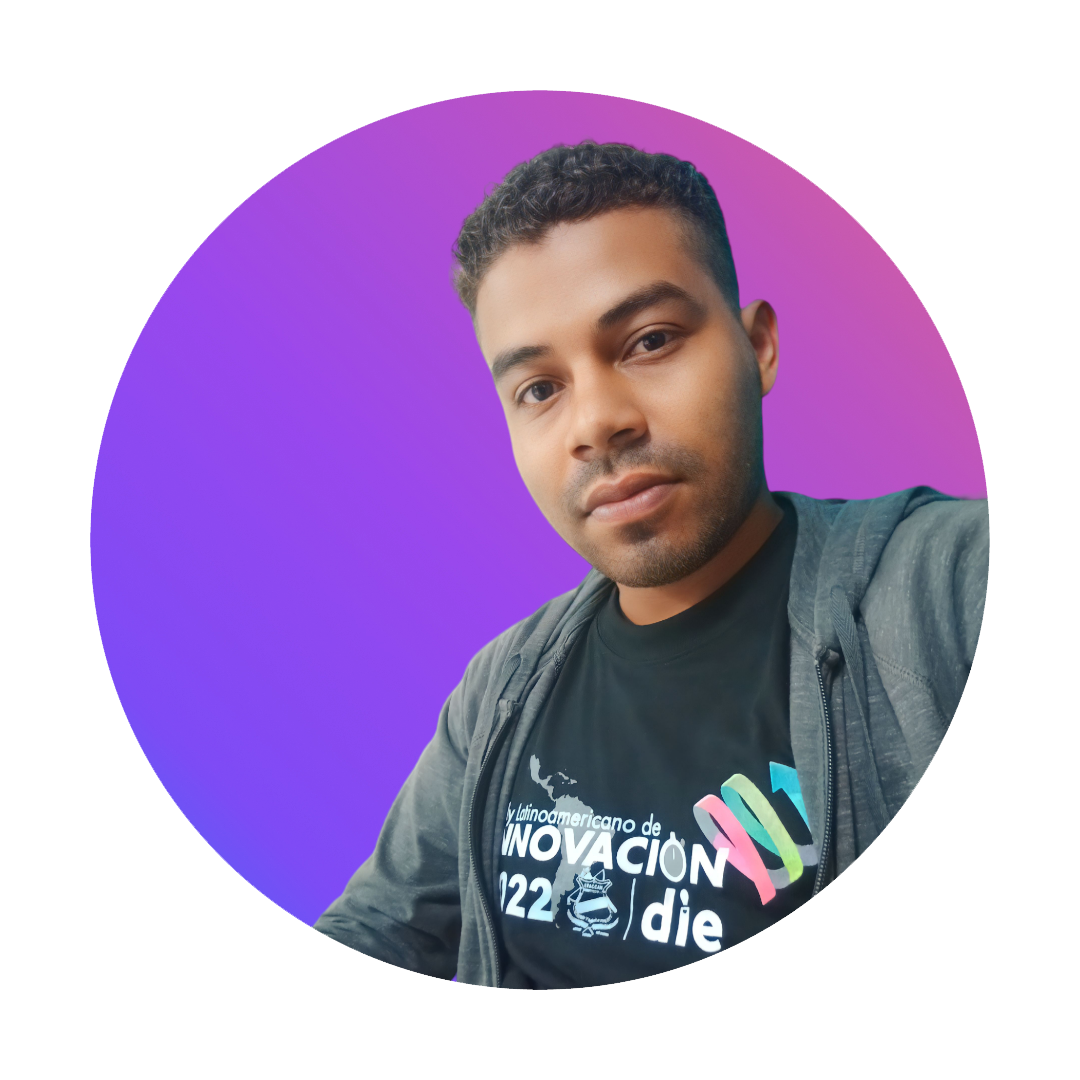
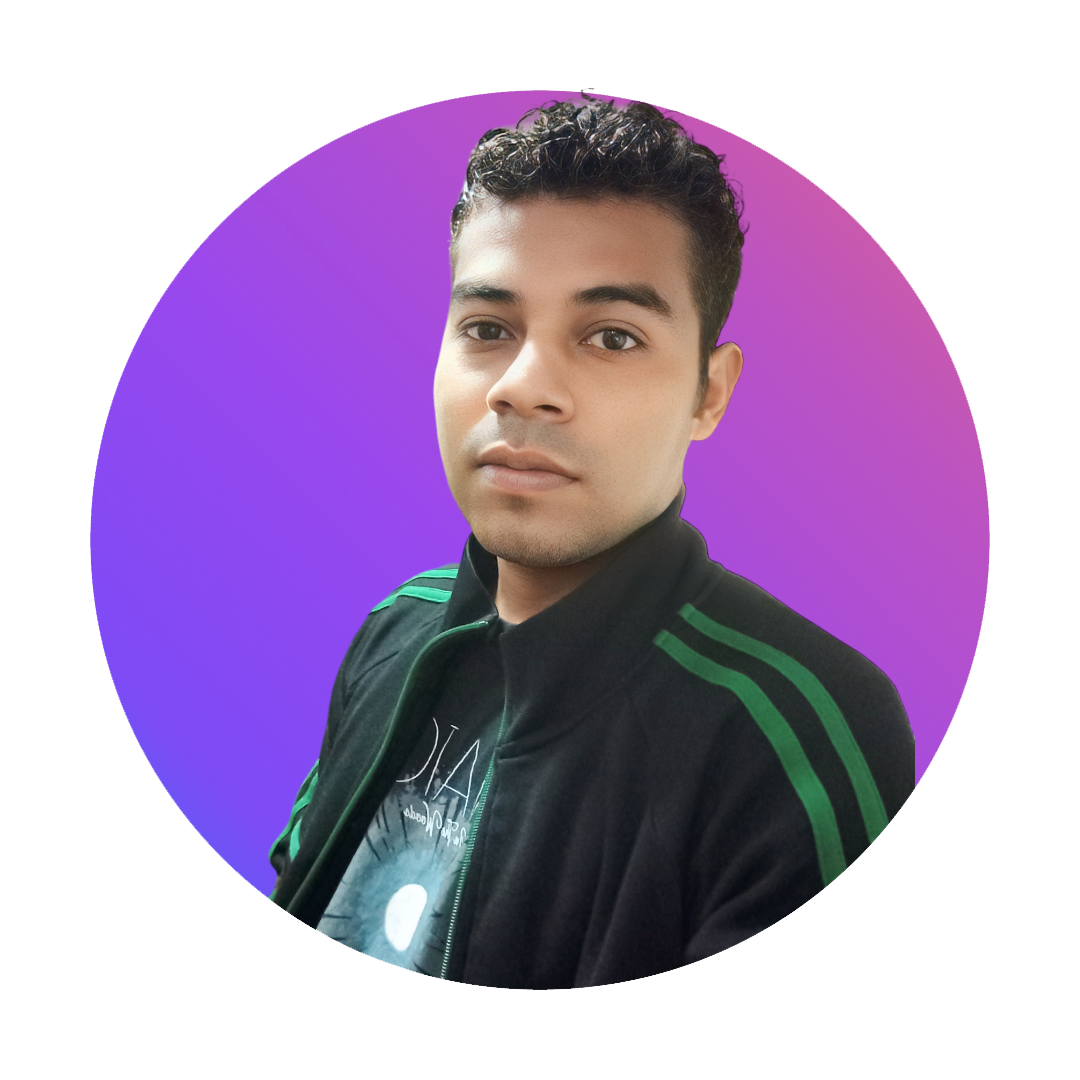
cambianfo perfil

Changed region(s): [[0.2444, 0.0917, 0.9167, 0.9167]]

diff --git a/html/about.html b/html/about.html
@@ -19,7 +19,7 @@
                 <h2>CODIFICADOR, DISEÑADOR, FRONTEND</h2>
             </div>
             <div class="foto">
-                <img src="../images/elliam.jpg" alt="elliam">
+                <img src="../images/foto.png" alt="elliam">
             </div>
         </div>
     </section>
